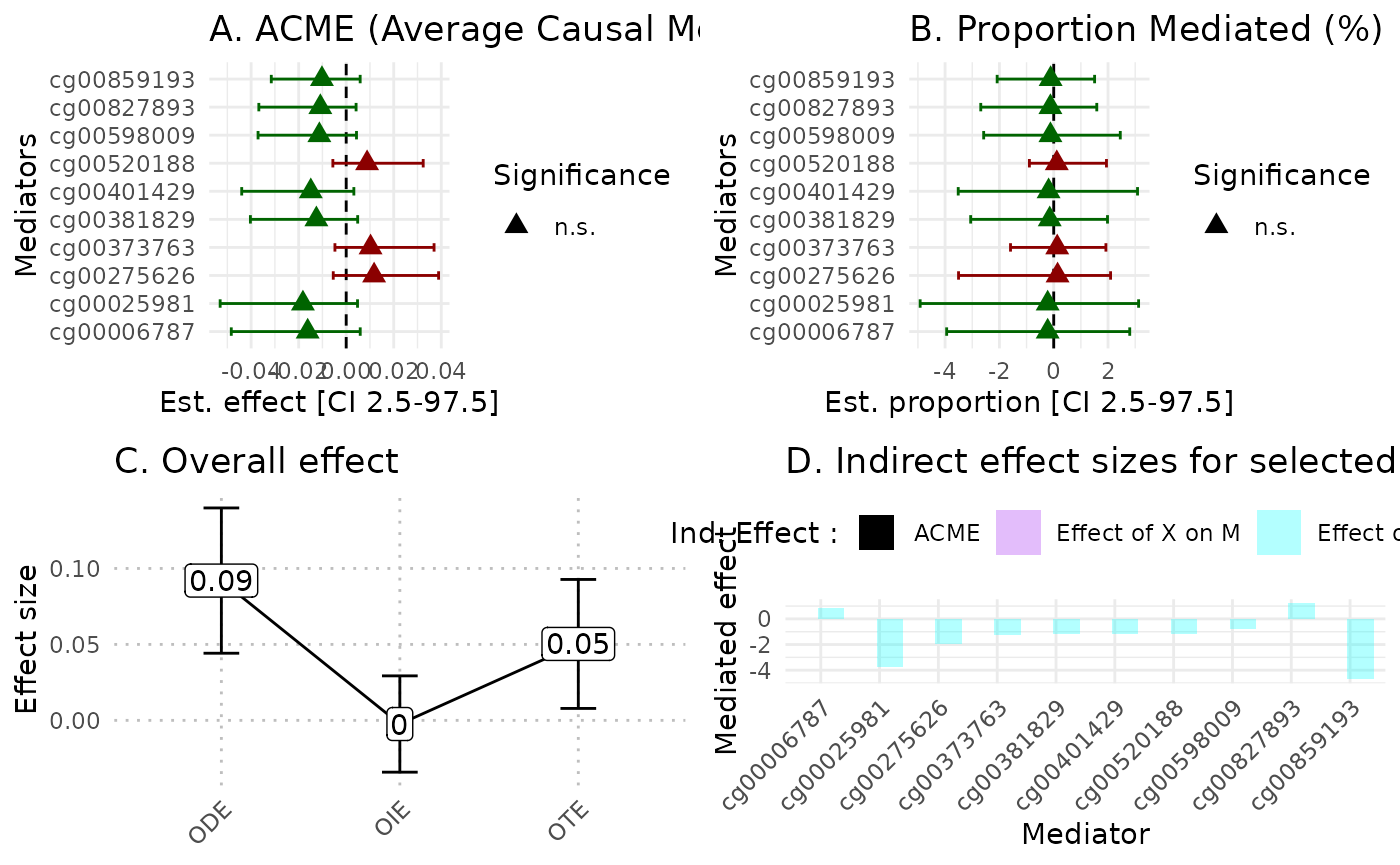
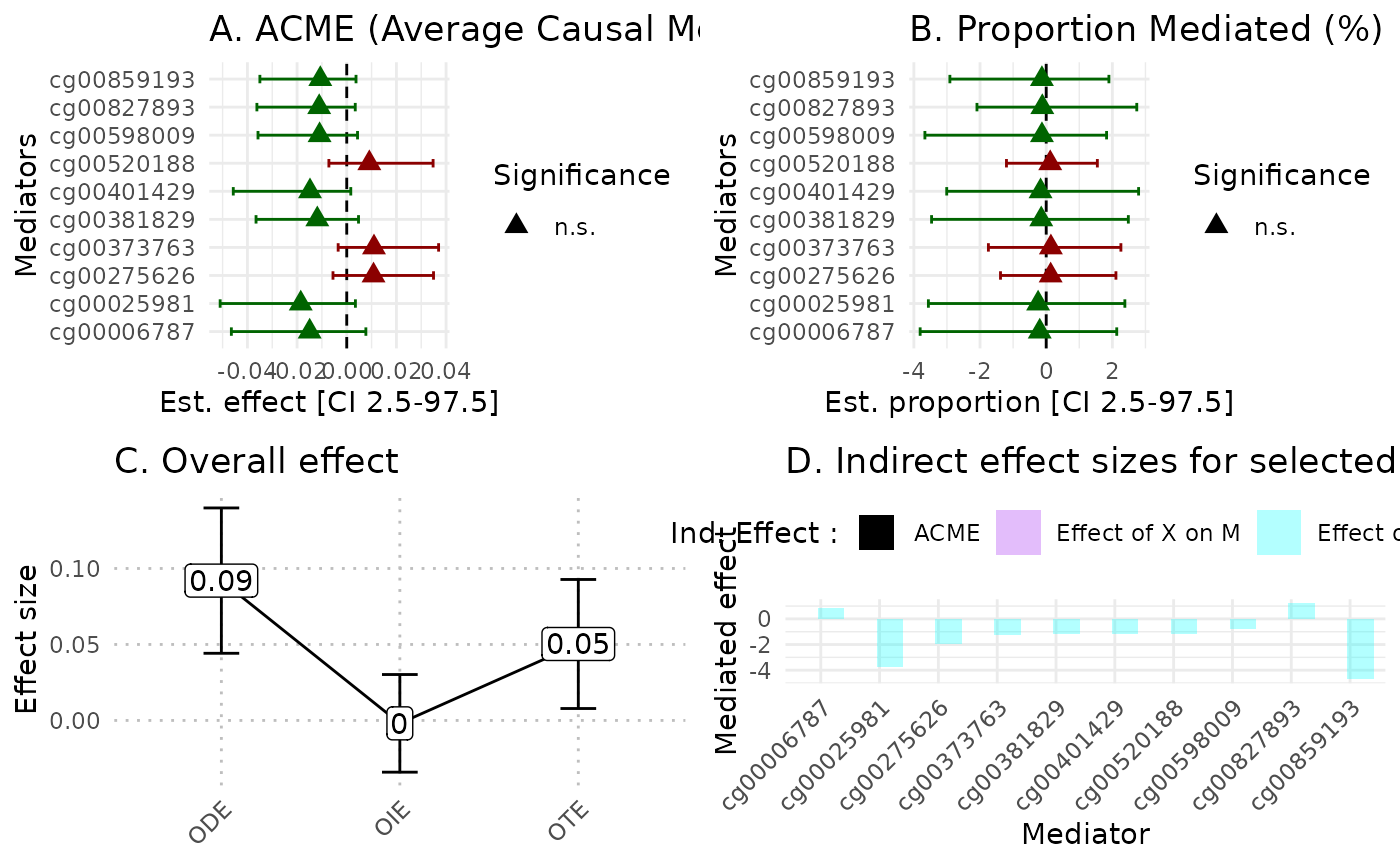
Deploying to gh-pages from @ bcm-uga/hdmax2@ecb3f21202ffd2e9962b13ee9c1c0003b1b059cd 🚀

diff --git a/reference/plot_univariate_cat.html b/reference/plot_univariate_cat.html
@@ -102,19 +102,109 @@ This function draw a summary plot of hdmax2</p>
 <span class="r-msg co"><span class="r-pr">#&gt;</span> The outcome vector is numeric and DON'T contains only 0s and 1s, it is assimilated as continous variable.</span>
 <span class="r-msg co"><span class="r-pr">#&gt;</span> Running first regression with univariate explanatory variable.</span>
 <span class="r-msg co"><span class="r-pr">#&gt;</span> Running second regression.</span>
-<span class="r-err co"><span class="r-pr">#&gt;</span> <span class="error">Error in hdmax2::run_AS(X = simu_data$X_categorial, Y = simu_data$Y_continuous,     M = simu_data$M, K = K):</span> object 'res_reg2' not found</span>
+<span class="r-msg co"><span class="r-pr">#&gt;</span> Running max-squared test.</span>
+<span class="r-msg co"><span class="r-pr">#&gt;</span> Not generating max2 pvalues for each explanatory variable.</span>
 <span class="r-in"><span><span class="co"># Select mediators</span></span></span>
 <span class="r-in"><span><span class="va">mediators_subset</span> <span class="op">=</span> <span class="fu"><a href="https://rdrr.io/r/base/names.html" class="external-link">names</a></span><span class="op">(</span><span class="fu"><a href="https://rdrr.io/r/base/sort.html" class="external-link">sort</a></span><span class="op">(</span><span class="va">hdmax2_step1</span><span class="op">$</span><span class="va">max2_pvalues</span><span class="op">)</span><span class="op">[</span><span class="fl">1</span><span class="op">:</span><span class="fl">10</span><span class="op">]</span><span class="op">)</span></span></span>
-<span class="r-err co"><span class="r-pr">#&gt;</span> <span class="error">Error in eval(expr, envir, enclos):</span> object 'hdmax2_step1' not found</span>
 <span class="r-in"><span><span class="va">mediators_top10</span> <span class="op">=</span> <span class="va">simu_data</span><span class="op">$</span><span class="va">M</span><span class="op">[</span>, <span class="va">mediators_subset</span><span class="op">]</span></span></span>
-<span class="r-err co"><span class="r-pr">#&gt;</span> <span class="error">Error in eval(expr, envir, enclos):</span> object 'mediators_subset' not found</span>
 <span class="r-in"><span><span class="co"># Run {hdmax2} step 2</span></span></span>
 <span class="r-in"><span><span class="va">hdmax2_step2</span> <span class="op">=</span> <span class="fu">hdmax2</span><span class="fu">::</span><span class="fu"><a href="estimate_effect.html">estimate_effect</a></span><span class="op">(</span>object <span class="op">=</span> <span class="va">hdmax2_step1</span>, </span></span>
 <span class="r-in"><span>                                       m <span class="op">=</span> <span class="va">mediators_top10</span><span class="op">)</span></span></span>
-<span class="r-err co"><span class="r-pr">#&gt;</span> <span class="error">Error in eval(expr, envir, enclos):</span> object 'hdmax2_step1' not found</span>
+<span class="r-msg co"><span class="r-pr">#&gt;</span> Estimating indirect effect for univariate exposome.</span>
+<span class="r-msg co"><span class="r-pr">#&gt;</span> The input exposome is categorial</span>
+<span class="r-msg co"><span class="r-pr">#&gt;</span> categorial exposome design matrix transformation</span>
+<span class="r-msg co"><span class="r-pr">#&gt;</span> Generate regression 1 for categorial exposure and mediator 1</span>
+<span class="r-msg co"><span class="r-pr">#&gt;</span> Generate regression 2 for continuous outcome and mediator 1</span>
+<span class="r-msg co"><span class="r-pr">#&gt;</span> Generate regression 1 for categorial exposure and mediator 2</span>
+<span class="r-msg co"><span class="r-pr">#&gt;</span> Generate regression 2 for continuous outcome and mediator 2</span>
+<span class="r-msg co"><span class="r-pr">#&gt;</span> Generate regression 1 for categorial exposure and mediator 3</span>
+<span class="r-msg co"><span class="r-pr">#&gt;</span> Generate regression 2 for continuous outcome and mediator 3</span>
+<span class="r-msg co"><span class="r-pr">#&gt;</span> Generate regression 1 for categorial exposure and mediator 4</span>
+<span class="r-msg co"><span class="r-pr">#&gt;</span> Generate regression 2 for continuous outcome and mediator 4</span>
+<span class="r-msg co"><span class="r-pr">#&gt;</span> Generate regression 1 for categorial exposure and mediator 5</span>
+<span class="r-msg co"><span class="r-pr">#&gt;</span> Generate regression 2 for continuous outcome and mediator 5</span>
+<span class="r-msg co"><span class="r-pr">#&gt;</span> Generate regression 1 for categorial exposure and mediator 6</span>
+<span class="r-msg co"><span class="r-pr">#&gt;</span> Generate regression 2 for continuous outcome and mediator 6</span>
+<span class="r-msg co"><span class="r-pr">#&gt;</span> Generate regression 1 for categorial exposure and mediator 7</span>
+<span class="r-msg co"><span class="r-pr">#&gt;</span> Generate regression 2 for continuous outcome and mediator 7</span>
+<span class="r-msg co"><span class="r-pr">#&gt;</span> Generate regression 1 for categorial exposure and mediator 8</span>
+<span class="r-msg co"><span class="r-pr">#&gt;</span> Generate regression 2 for continuous outcome and mediator 8</span>
+<span class="r-msg co"><span class="r-pr">#&gt;</span> Generate regression 1 for categorial exposure and mediator 9</span>
+<span class="r-msg co"><span class="r-pr">#&gt;</span> Generate regression 2 for continuous outcome and mediator 9</span>
+<span class="r-msg co"><span class="r-pr">#&gt;</span> Generate regression 1 for categorial exposure and mediator 10</span>
+<span class="r-msg co"><span class="r-pr">#&gt;</span> Generate regression 2 for continuous outcome and mediator 10</span>
+<span class="r-msg co"><span class="r-pr">#&gt;</span> Computing ODE and OTE for continuous outcome.</span>
+<span class="r-msg co"><span class="r-pr">#&gt;</span> Generate regression 1 for categorial exposure and mediator 1</span>
+<span class="r-msg co"><span class="r-pr">#&gt;</span> Generate regression 2 for continuous outcome and mediator 1</span>
+<span class="r-msg co"><span class="r-pr">#&gt;</span> Generate regression 1 for categorial exposure and mediator 2</span>
+<span class="r-msg co"><span class="r-pr">#&gt;</span> Generate regression 2 for continuous outcome and mediator 2</span>
+<span class="r-msg co"><span class="r-pr">#&gt;</span> Generate regression 1 for categorial exposure and mediator 3</span>
+<span class="r-msg co"><span class="r-pr">#&gt;</span> Generate regression 2 for continuous outcome and mediator 3</span>
+<span class="r-msg co"><span class="r-pr">#&gt;</span> Generate regression 1 for categorial exposure and mediator 4</span>
+<span class="r-msg co"><span class="r-pr">#&gt;</span> Generate regression 2 for continuous outcome and mediator 4</span>
+<span class="r-msg co"><span class="r-pr">#&gt;</span> Generate regression 1 for categorial exposure and mediator 5</span>
+<span class="r-msg co"><span class="r-pr">#&gt;</span> Generate regression 2 for continuous outcome and mediator 5</span>
+<span class="r-msg co"><span class="r-pr">#&gt;</span> Generate regression 1 for categorial exposure and mediator 6</span>
+<span class="r-msg co"><span class="r-pr">#&gt;</span> Generate regression 2 for continuous outcome and mediator 6</span>
+<span class="r-msg co"><span class="r-pr">#&gt;</span> Generate regression 1 for categorial exposure and mediator 7</span>
+<span class="r-msg co"><span class="r-pr">#&gt;</span> Generate regression 2 for continuous outcome and mediator 7</span>
+<span class="r-msg co"><span class="r-pr">#&gt;</span> Generate regression 1 for categorial exposure and mediator 8</span>
+<span class="r-msg co"><span class="r-pr">#&gt;</span> Generate regression 2 for continuous outcome and mediator 8</span>
+<span class="r-msg co"><span class="r-pr">#&gt;</span> Generate regression 1 for categorial exposure and mediator 9</span>
+<span class="r-msg co"><span class="r-pr">#&gt;</span> Generate regression 2 for continuous outcome and mediator 9</span>
+<span class="r-msg co"><span class="r-pr">#&gt;</span> Generate regression 1 for categorial exposure and mediator 10</span>
+<span class="r-msg co"><span class="r-pr">#&gt;</span> Generate regression 2 for continuous outcome and mediator 10</span>
+<span class="r-msg co"><span class="r-pr">#&gt;</span> Computing ODE and OTE for continuous outcome.</span>
+<span class="r-msg co"><span class="r-pr">#&gt;</span> Generate regression 1 for categorial exposure and mediator 1</span>
+<span class="r-msg co"><span class="r-pr">#&gt;</span> Generate regression 2 for continuous outcome and mediator 1</span>
+<span class="r-msg co"><span class="r-pr">#&gt;</span> Generate regression 1 for categorial exposure and mediator 2</span>
+<span class="r-msg co"><span class="r-pr">#&gt;</span> Generate regression 2 for continuous outcome and mediator 2</span>
+<span class="r-msg co"><span class="r-pr">#&gt;</span> Generate regression 1 for categorial exposure and mediator 3</span>
+<span class="r-msg co"><span class="r-pr">#&gt;</span> Generate regression 2 for continuous outcome and mediator 3</span>
+<span class="r-msg co"><span class="r-pr">#&gt;</span> Generate regression 1 for categorial exposure and mediator 4</span>
+<span class="r-msg co"><span class="r-pr">#&gt;</span> Generate regression 2 for continuous outcome and mediator 4</span>
+<span class="r-msg co"><span class="r-pr">#&gt;</span> Generate regression 1 for categorial exposure and mediator 5</span>
+<span class="r-msg co"><span class="r-pr">#&gt;</span> Generate regression 2 for continuous outcome and mediator 5</span>
+<span class="r-msg co"><span class="r-pr">#&gt;</span> Generate regression 1 for categorial exposure and mediator 6</span>
+<span class="r-msg co"><span class="r-pr">#&gt;</span> Generate regression 2 for continuous outcome and mediator 6</span>
+<span class="r-msg co"><span class="r-pr">#&gt;</span> Generate regression 1 for categorial exposure and mediator 7</span>
+<span class="r-msg co"><span class="r-pr">#&gt;</span> Generate regression 2 for continuous outcome and mediator 7</span>
+<span class="r-msg co"><span class="r-pr">#&gt;</span> Generate regression 1 for categorial exposure and mediator 8</span>
+<span class="r-msg co"><span class="r-pr">#&gt;</span> Generate regression 2 for continuous outcome and mediator 8</span>
+<span class="r-msg co"><span class="r-pr">#&gt;</span> Generate regression 1 for categorial exposure and mediator 9</span>
+<span class="r-msg co"><span class="r-pr">#&gt;</span> Generate regression 2 for continuous outcome and mediator 9</span>
+<span class="r-msg co"><span class="r-pr">#&gt;</span> Generate regression 1 for categorial exposure and mediator 10</span>
+<span class="r-msg co"><span class="r-pr">#&gt;</span> Generate regression 2 for continuous outcome and mediator 10</span>
+<span class="r-msg co"><span class="r-pr">#&gt;</span> Computing ODE and OTE for continuous outcome.</span>
 <span class="r-in"><span><span class="co"># Generate plot</span></span></span>
 <span class="r-in"><span><span class="fu">hdmax2</span><span class="fu">::</span><span class="fu">plot_univariate_cat</span><span class="op">(</span><span class="va">hdmax2_step2</span>,  plot_type<span class="op">=</span> <span class="st">"all_plot"</span><span class="op">)</span></span></span>
-<span class="r-err co"><span class="r-pr">#&gt;</span> <span class="error">Error in eval(expr, envir, enclos):</span> object 'hdmax2_step2' not found</span>
+<span class="r-plt img"><img src="plot_univariate_cat-1.png" alt="" width="700" height="433"></span>
+<span class="r-plt img"><img src="plot_univariate_cat-2.png" alt="" width="700" height="433"></span>
+<span class="r-plt img"><img src="plot_univariate_cat-3.png" alt="" width="700" height="433"></span>
+<span class="r-out co"><span class="r-pr">#&gt;</span> [[1]]</span>
+<span class="r-out co"><span class="r-pr">#&gt;</span> TableGrob (2 x 2) "arrange": 4 grobs</span>
+<span class="r-out co"><span class="r-pr">#&gt;</span>   z     cells    name           grob</span>
+<span class="r-out co"><span class="r-pr">#&gt;</span> 1 1 (1-1,1-1) arrange gtable[layout]</span>
+<span class="r-out co"><span class="r-pr">#&gt;</span> 2 2 (1-1,2-2) arrange gtable[layout]</span>
+<span class="r-out co"><span class="r-pr">#&gt;</span> 3 3 (2-2,1-1) arrange gtable[layout]</span>
+<span class="r-out co"><span class="r-pr">#&gt;</span> 4 4 (2-2,2-2) arrange gtable[layout]</span>
+<span class="r-out co"><span class="r-pr">#&gt;</span> </span>
+<span class="r-out co"><span class="r-pr">#&gt;</span> [[2]]</span>
+<span class="r-out co"><span class="r-pr">#&gt;</span> TableGrob (2 x 2) "arrange": 4 grobs</span>
+<span class="r-out co"><span class="r-pr">#&gt;</span>   z     cells    name           grob</span>
+<span class="r-out co"><span class="r-pr">#&gt;</span> 1 1 (1-1,1-1) arrange gtable[layout]</span>
+<span class="r-out co"><span class="r-pr">#&gt;</span> 2 2 (1-1,2-2) arrange gtable[layout]</span>
+<span class="r-out co"><span class="r-pr">#&gt;</span> 3 3 (2-2,1-1) arrange gtable[layout]</span>
+<span class="r-out co"><span class="r-pr">#&gt;</span> 4 4 (2-2,2-2) arrange gtable[layout]</span>
+<span class="r-out co"><span class="r-pr">#&gt;</span> </span>
+<span class="r-out co"><span class="r-pr">#&gt;</span> [[3]]</span>
+<span class="r-out co"><span class="r-pr">#&gt;</span> TableGrob (2 x 2) "arrange": 4 grobs</span>
+<span class="r-out co"><span class="r-pr">#&gt;</span>   z     cells    name           grob</span>
+<span class="r-out co"><span class="r-pr">#&gt;</span> 1 1 (1-1,1-1) arrange gtable[layout]</span>
+<span class="r-out co"><span class="r-pr">#&gt;</span> 2 2 (1-1,2-2) arrange gtable[layout]</span>
+<span class="r-out co"><span class="r-pr">#&gt;</span> 3 3 (2-2,1-1) arrange gtable[layout]</span>
+<span class="r-out co"><span class="r-pr">#&gt;</span> 4 4 (2-2,2-2) arrange gtable[layout]</span>
+<span class="r-out co"><span class="r-pr">#&gt;</span> </span>
 <span class="r-in"><span></span></span>
 </code></pre></div>
     </div>
